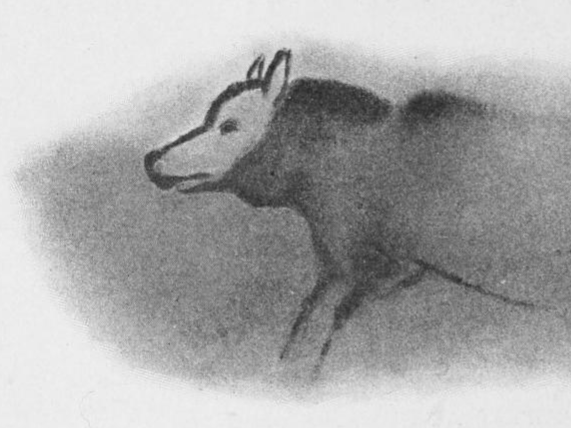
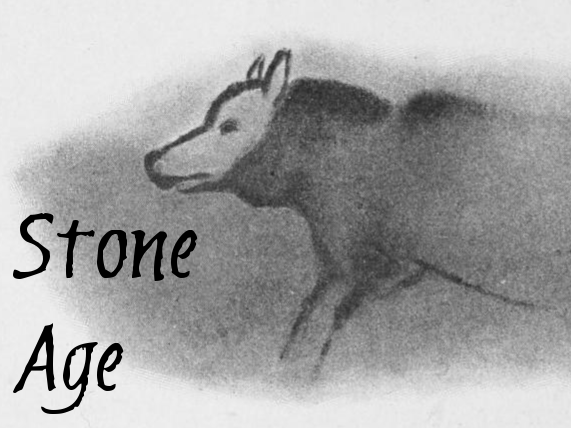
Add files via upload

Changed region(s): [[0.0298, 0.486, 0.3573, 0.6682], [0.0298, 0.7593, 0.2382, 0.972]]

diff --git a/StoneAge.css b/StoneAge.css
@@ -11,7 +11,7 @@ div.sheet-character {
 	width: 800px;
 	grid-gap: 4px;
 	grid-template-columns: repeat(6, 1fr);
-	grid-template-areas:	"general	general		chars	chars	image			image"
+	grid-template-areas:	"general	general		chars	chars	logo			logo"
 							"hitPoints	hitPoints	hitPoints	hitPoints	spiritPoints	spiritPoints"
 							"skills		skills		skills	skills	skills			skills"
 							"weapons	weapons		weapons	weapons	combat			combat";
@@ -47,8 +47,8 @@ div.sheet-chars h3 {
 	text-align: center;
 }
 
-div.sheet-image {
-	grid-area: image;
+div.sheet-logo {
+	grid-area: logo;
     border-style: solid;
 	border-width: thin;
 }

diff --git a/StoneAge.html b/StoneAge.html
@@ -50,7 +50,7 @@
 		<span class='sheet-centre' >Move Rate</span>
 		<input type="text" name="attr_MoveRate" class='sheet-width100' value="" />
 	</div>
-	<div class="sheet-image">
+	<div class="sheet-logo">
 		<img src="https://raw.githubusercontent.com/cvillarl/stone-age/master/Wolf.png" />
 	</div>
 	<div class="sheet-hitPoints">
